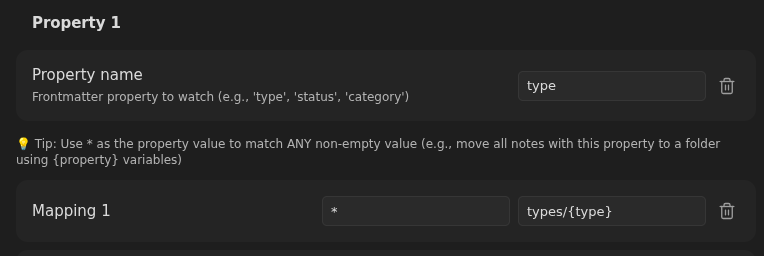
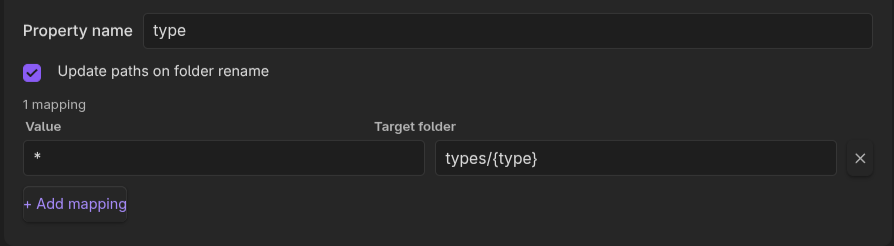
docs: add AI disclosure notice + update screenshots

diff --git a/README.md b/README.md
@@ -2,6 +2,10 @@
 
 Automatically move notes based on frontmatter properties. **It just works.**
 
+> 💡 **Built with AI** — This plugin is developed and maintained via AI agents.
+> I use AI as my primary tool for implementation, issue handling, and maintenance.
+> You are free to choose whether to use this plugin based on that.
+
 <a href="https://www.buymeacoffee.com/yffbptmtaa" target="_blank"><img src="https://cdn.buymeacoffee.com/buttons/v2/default-violet.png" alt="Buy Me A Coffee" style="height: 60px !important;width: 217px !important;" ></a>
 
 ## Flexible mapping based on property values